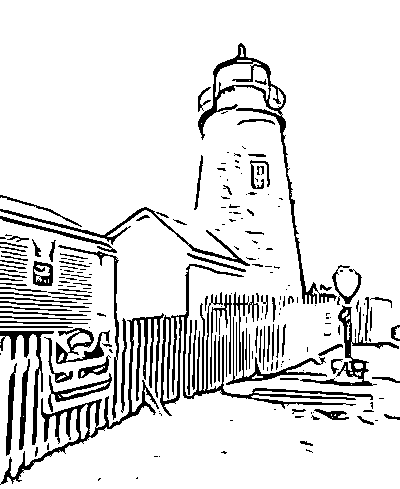
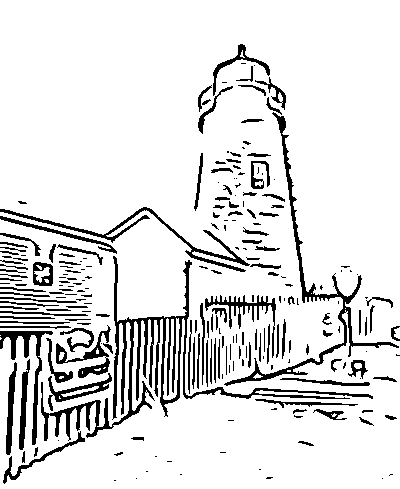
emmm ok

diff --git a/fdog.py b/fdog.py
@@ -64,7 +64,7 @@ def refine_flow(flow, mag, ksize):
 
     # compute wd
     wd = np.abs(dots)
-    
+
     # compute wm
     mag_padded = np.pad(mag, ((0, 0), (p, p), (p, p)))
     mag_neighbors = find_neighbors(mag_padded, ksize,
@@ -144,7 +144,7 @@ def detect_edge(img, flow, gauss_size, sigma_m,
     gauss_s = gauss_s[-dog_width + swidth: dog_width + 1 + swidth]
 
     # do padding
-    img_padded = np.pad(img,
+    img = np.pad(img,
         ((dog_width, dog_width), (dog_width, dog_width)))
 
     # start coords of each pixel (shifted by dog_width)
@@ -168,7 +168,7 @@ def detect_edge(img, flow, gauss_size, sigma_m,
     iy = iy.reshape(2 * dog_width + 1, h, w)
 
     # neighbors of each pixel along the gradient
-    neighbors = img_padded[iy, ix]
+    neighbors = img[iy, ix]
 
     # apply dog filter in gradient's direction
     gauss_c = gauss_c.reshape(2 * dog_width + 1, 1, 1)
@@ -178,54 +178,88 @@ def detect_edge(img, flow, gauss_size, sigma_m,
     gauss_s = gauss_s.reshape(2 * dog_width + 1, 1, 1)
     img_gauss_s = np.sum(gauss_s * neighbors, axis=0) \
                 / np.sum(gauss_s)
-    dog = img_gauss_c - rho * img_gauss_s
+    img_dog = img_gauss_c - rho * img_gauss_s
 
     zero_grad_mask = np.logical_and(
                     grad[0, ...] == 0, grad[1, ...] == 0)
-    dog[zero_grad_mask] = 0
+    img_dog[zero_grad_mask] = 0
 
     gauss_m = make_gauss_filter(sigma_m)
     gauss_width = len(gauss_m) // 2
+    
+    # initialize with a negative weight for coding's convenience
+    img_fdog = -gauss_m[gauss_width] * img_dog
+    weight_acc = np.full_like(img_dog, fill_value=-gauss_m[gauss_width])
 
-    dog_padded = np.pad(dog,
+    img_dog = np.pad(img_dog,
         ((gauss_width, gauss_width), (gauss_width, gauss_width)))
-    flow_padded = np.pad(flow, ((0, 0),
+    zero_grad_mask = np.pad(zero_grad_mask,
+        ((gauss_width, gauss_width), (gauss_width, gauss_width)))
+    flow = np.pad(flow, ((0, 0),
         (gauss_width, gauss_width), (gauss_width, gauss_width)))
 
-    fdog = np.zeros_like(dog)
-
-    # TODO: 
     # smooth neighbors alone tangent
     sx, sy = np.meshgrid(np.arange(w), np.arange(h))
-    sx += gauss_size; sy += gauss_width
+    sx += gauss_width; sy += gauss_width
+
+    forward_mask = np.full(shape=(h, w), fill_value=True,
+                dtype='bool')
 
     x = sx.astype('float32')
     y = sy.astype('float32')
-    for i in range(gauss_size):
+    for i in range(gauss_width + 1):
         ix, iy = np.round(x).astype('int32'), \
             np.round(y).astype('int32')
-        neighbor = img_padded[iy, ix]
-        # multiply weight
-        H += (neighbor * gauss_f[gauss_size + i])
-        # take a step
-        x += flow_padded[0, iy, ix]
-        y += flow_padded[1, iy, ix]
 
+        none_zero_mask = np.logical_not(zero_grad_mask[iy, ix])
+        forward_mask = np.logical_and(forward_mask, none_zero_mask)
+
+        neighbor = img_dog[iy, ix]
+
+        # multiply weight
+        weight = gauss_m[gauss_width + i]
+        img_fdog[forward_mask] += (neighbor * weight)[forward_mask]
+        weight_acc[forward_mask] += weight
+
+        # take a step
+        x += flow[0, iy, ix]
+        y += flow[1, iy, ix]
+
+
+    forward_mask = np.full(shape=(h, w), fill_value=True,
+                dtype='bool')
     x = sx.astype('float32')
     y = sy.astype('float32')
-    for i in range(1, gauss_size):
+    for i in range(gauss_width + 1):
         ix, iy = np.round(x).astype('int32'), \
             np.round(y).astype('int32')
-        neighbor = img_padded[iy, ix]
+
+        none_zero_mask = np.logical_not(zero_grad_mask[iy, ix])
+        forward_mask = np.logical_and(forward_mask, none_zero_mask)
+
+        neighbor = img_dog[iy, ix]
+
         # multiply weight
-        H += (neighbor * gauss_f[gauss_size - i])
+        weight = gauss_m[gauss_width - i]
+        img_fdog[forward_mask] += (neighbor * weight)[forward_mask]
+        weight_acc[forward_mask] += weight
+
         # take a step
-        x -= flow_padded[0, iy, ix]
-        y -= flow_padded[1, iy, ix]
+        x -= flow[0, iy, ix]
+        y -= flow[1, iy, ix]
+    
+    # postprocess
+    img_fdog /= weight_acc
+    img_fdog[img_fdog > 0] = 1
+    img_fdog[img_fdog <= 0] = 1 + np.tanh(img_fdog[img_fdog <= 0])
+    img_fdog = (img_fdog - np.min(img_fdog)) / \
+               (np.max(img_fdog) - np.min(img_fdog))
 
     # binarize
-    mask = np.logical_and(H < 0, (1 + np.tanh(H)) < tau)
-    edge = np.where(mask, 0, 255).astype('float32')
+    # mask = np.logical_and(img_fdog < 0, (1 + np.tanh(img_fdog)) < tau)
+    img_fdog[img_fdog < tau] = 0
+    img_fdog[img_fdog >= tau] = 255
+    edge = img_fdog.astype('uint8')
     return edge
 
 
@@ -333,8 +367,8 @@ def run(img, sobel_size=3, etf_iter=2, etf_size=9,
         edge = detect_edge(img, flow,
             gauss_size=gauss_size, sigma_m=sigma_m,
             dog_size=dog_size, sigma_c=sigma_c, rho=rho, tau=tau)
-        img += edge
-        img = np.clip(img, 0, 255)
+        img[edge == 0] = 0
+        img = cv.GaussianBlur(img, ksize=(3, 3), sigmaX=0)
         end = time.perf_counter()
         print(f"applying fdog, iteration {i + 1}, "
                 f"time cost = {end - start:<6f}s")
@@ -345,11 +379,24 @@ def run(img, sobel_size=3, etf_iter=2, etf_size=9,
 
 
 if __name__ == "__main__":
+    # test2.jpg is noisy and need specific configuration:
+    # img=img
+    # sobel_size=5
+    # etf_iter=2
+    # etf_size=7
+    # fdog_iter=5
+    # gauss_size=13
+    # sigma_m=3.0
+    # dog_size=7
+    # sigma_c=1.0
+    # rho=0.98
+    # tau=0.803
+
     tests = [
-        # 'test1.jpg', 'test2.jpg', 'test3.jpg',
-        # 'eagle.jpg', 'butterfly.jpg', 'lighthouse.png',
-        'eagle.jpg'
-        # 'star.jpg', 'girl.jpg'
+        # 'test2.jpg'
+        'test1.jpg', 'test3.jpg',
+        'eagle.jpg', 'butterfly.jpg', 'lighthouse.png',
+        'star.jpg', 'girl.jpg'
     ]
 
     for test in tests:
@@ -367,22 +414,22 @@ if __name__ == "__main__":
         # run on this image and return edge map
         edge = run(
             img=img,
-            sobel_size=3,
+            sobel_size=5,
             etf_iter=2,
-            etf_size=9,
-            fdog_iter=3,
+            etf_size=7,
+            fdog_iter=2,
             gauss_size=13,
             sigma_m=3.0,
-            dog_size=5,
+            dog_size=7,
             sigma_c=1.0,
             rho=0.99,
-            tau=0.2
+            tau=0.907
         )
         print("{}-{}".format('- ' * 10, ' -' * 9))
 
         # show origin image and edge map
         cv_imshow(img, title="input", wait=0.1)
-        cv_imshow(edge.astype('uint8'), title="output", wait=0.5,
+        cv_imshow(edge.astype('uint8'), title="output", wait=0,
             move=(int(img.shape[1] * 1.5), 0))
 
         # save result
